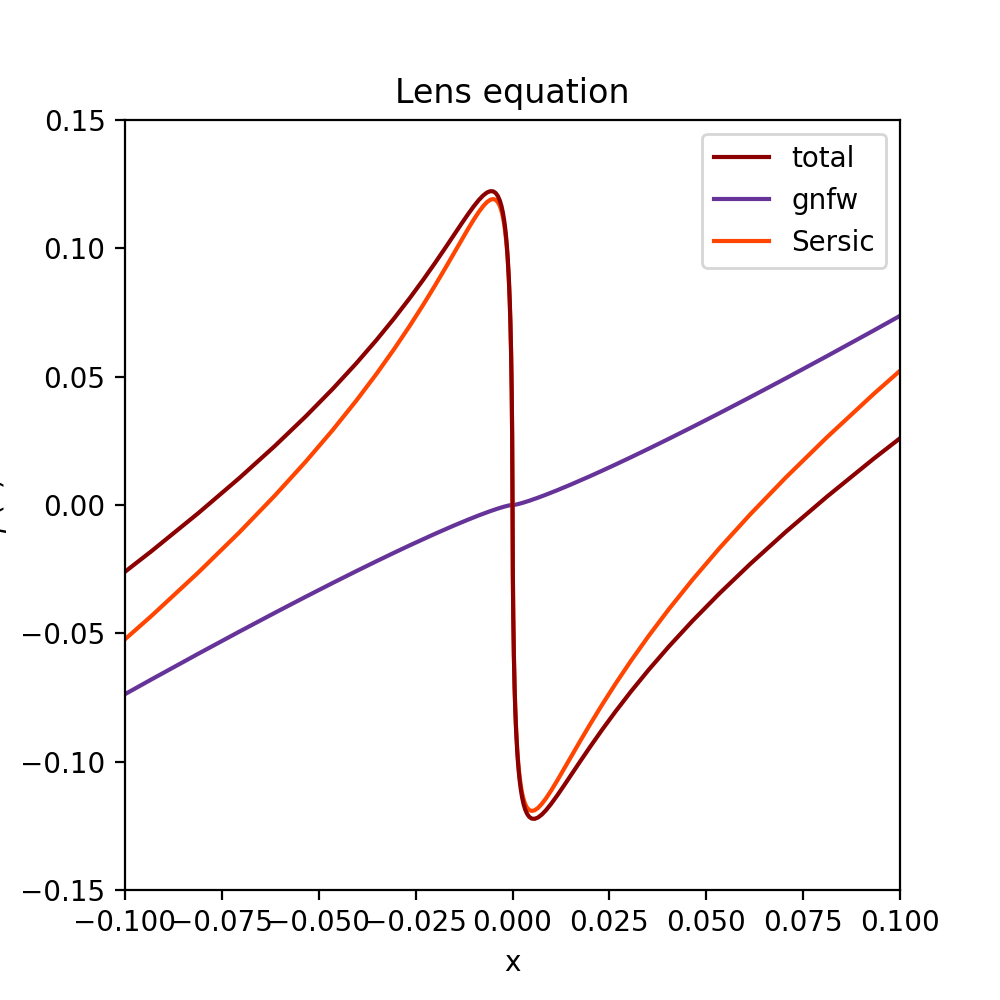
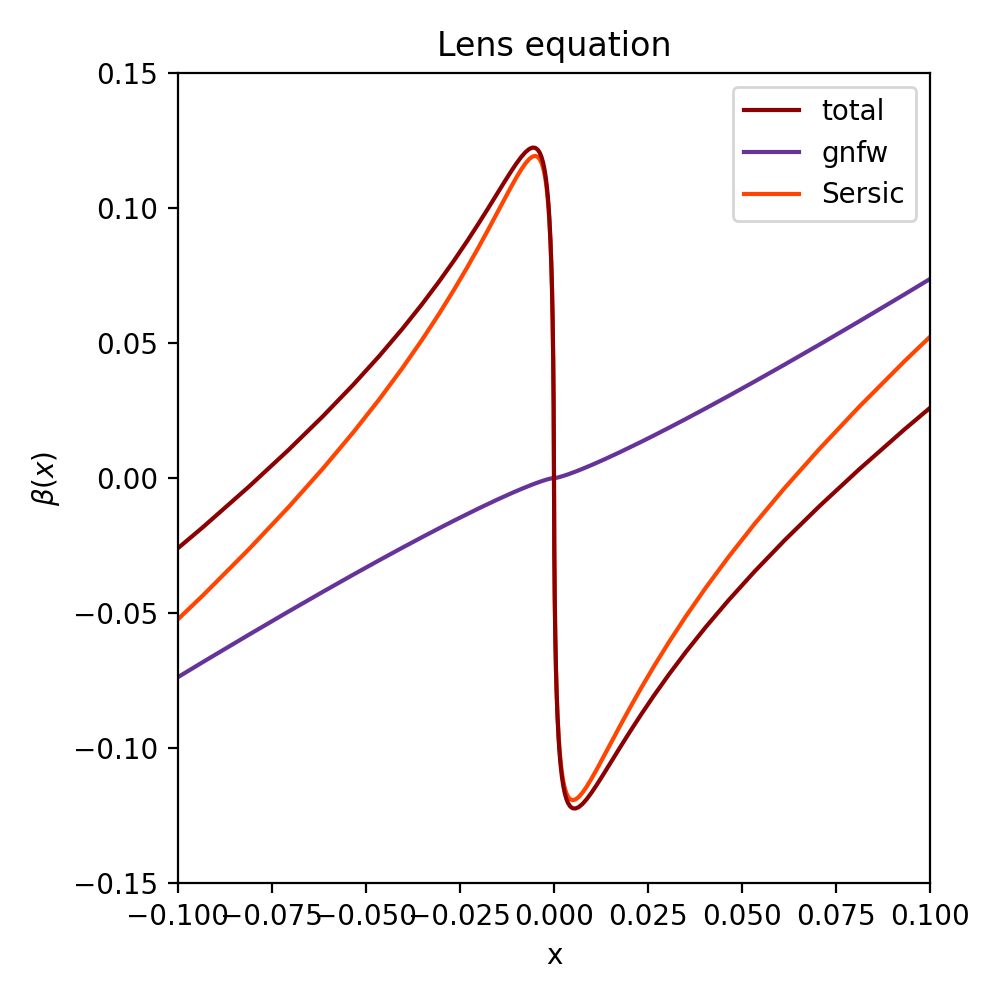
update plots

diff --git a/tutorials/lens_statistics.py b/tutorials/lens_statistics.py
@@ -29,6 +29,7 @@ class lensplot(gnfwSersic):
         ax[1].set_ylabel('f(x)')
         ax[1].legend()
         plt.show()
+        fig.tight_layout()
         if write:
             
             fig.savefig("./plots/fxgx.png",format="png")
@@ -46,8 +47,8 @@ class lensplot(gnfwSersic):
         ax.set_xlabel('x')
         ax.set_ylabel(r"$\Sigma(x)$")
         ax.legend()
-
         plt.show()
+        fig.tight_layout()
         if write:
             fig.savefig("./plots/Sigma.png",format="png")
             
@@ -63,8 +64,8 @@ class lensplot(gnfwSersic):
         ax.set_xlabel('x')
         ax.set_ylabel(r"$\alpha(x)$")
         ax.legend()
-
         plt.show()
+        fig.tight_layout()
         if write:
             fig.savefig("./plots/alpha.png",format="png")
             
@@ -88,8 +89,8 @@ class lensplot(gnfwSersic):
         ax.set_xlim([-self._x[-1]*.1,self._x[-1]*.1])
         ax.set_ylim([-.15,.15])
         ax.legend()
-
         plt.show()
+        fig.tight_layout()
         if write:
             fig.savefig("./plots/beta.png",format="png")
             
@@ -106,8 +107,8 @@ class lensplot(gnfwSersic):
         ax.set_xlabel('x')
         ax.set_ylabel(r"$\kappa(x)$")
         ax.legend()
-
         plt.show()
+        fig.tight_layout()
         if write:
             fig.savefig("./plots/kappa.png",format="png")
             
@@ -124,8 +125,8 @@ class lensplot(gnfwSersic):
         ax.set_xlabel('x')
         ax.set_ylabel(r"$\gamma(x)$")
         ax.legend()
-
         plt.show()
+        fig.tight_layout()
         if write:
             fig.savefig("./plots/gamma.png",format="png")
             
